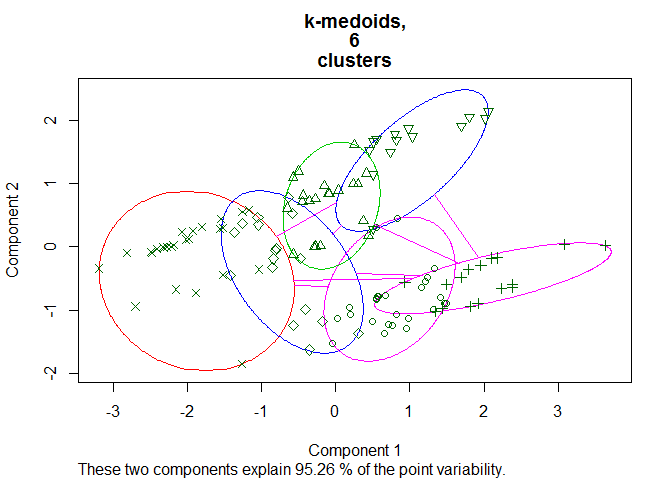
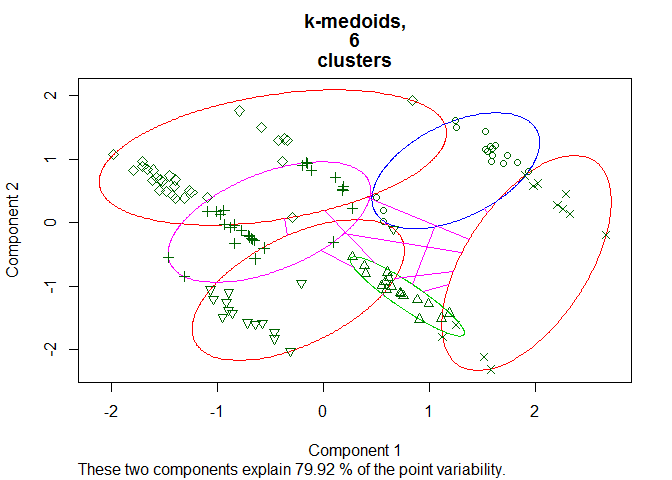
update readme example

diff --git a/README.md b/README.md
@@ -1,17 +1,26 @@
 
-CCC - Categorization, Clustering and Classification
-===================================================
+# CCC - Categorization, Clustering and Classification
 
-The package implements the 3C-strategy\\pipeline for the refinement of disease diagnoses in medical research.
+The package implements the 3C-strategy for the refinement of disease
+diagnoses in medical research.
 
-The first step in the analysis pipeline is manual **C**ategorization of the feature set to: (i) current clinical measures \[CM\] , (ii) potential biomarkers \[PB\] and (iii) assigned diagnosis \[DX\] (one variable).
+The first step in the analysis pipeline is manual **C**ategorization of
+the feature set to: (i) current clinical measures \[CM\] , (ii)
+potential biomarkers \[PB\] and (iii) assigned diagnosis \[DX\] (one
+variable).
 
-In the beginning of the second step (**C**lustering), a subset of the clinical measures is selected via supervised algorithm (Random Forest, LASSO or else) with the assigned diagnosis as the target variable. Then, the selected measures are used to determine the number of clusters for the clustering. Next, the clustering algorithm is applied (K-means, K-medoids or Hierarchical clustering).
+In the beginning of the second step (**C**lustering), a subset of the
+clinical measures is selected via supervised algorithm (Random Forest,
+LASSO or else) with the assigned diagnosis as the target variable. Then,
+the selected measures are used to determine the number of clusters for
+the clustering. Next, the clustering algorithm is applied (K-means,
+K-medoids or Hierarchical clustering).
 
-In step 3 a new model is trained, using the potential biomarkers as features, to **C**lassify the data according to the cluster labels created in step 2.
+In the third step, new model is trained using the potential biomarkers
+as features, to **C**lassify the data according to the cluster labels
+created in step 2.
 
-Installation
-------------
+## Installation
 
 You can install CCC from github with:
 
@@ -20,31 +29,17 @@ You can install CCC from github with:
 devtools::install_github("HBPMedical/CCC")
 ```
 
-Example
--------
+## Example
 
-This is a basic example of the pipeline:
+This is a basic example of the analysis pipeline:
 
 ``` r
-library(tidyverse)
 library(CCC)
 
-adni_subset <- read.csv("data/adni_subset.csv")
-adni_subset_metadata <- read.csv("data/adni_subset_metadata.csv")
+data(c3_sample1)
+data(c3_sample1_categories)
 
-head(adni_subset_metadata) 
-#>     varName varCategory
-#> 1 real_DX_f          DX
-#> 2      CM.1          CM
-#> 3      CM.2          CM
-#> 4      CM.3          CM
-#> 5      CM.4          CM
-#> 6      CM.5          CM
-table(adni_subset_metadata[,"varCategory"])
-#> 
-#> CM DX PB 
-#> 10  1 10
-head(adni_subset)
+head(c3_sample1) 
 #>   real_DX_f assigned_DX_f      CM.1        CM.2       CM.3 CM.4 CM.5 CM.6
 #> 1       1.1             1 28.566518  0.07369715  1.6263875   21    8   -1
 #> 2       1.2             1 15.509559 25.53818777  9.2405993    0    4  -42
@@ -66,41 +61,46 @@ head(adni_subset)
 #> 4  2.961199 2.074998   14    7   79    4    13
 #> 5  2.938243 1.997625   13    7   80    4    13
 #> 6  2.983341 2.001479   15    7   80    4    13
+table(c3_sample1_categories[,"varCategory"])
+#> 
+#> CM DX PB 
+#> 10  1 10
 
-x <- get_xy_from_DATA_C2(adni_subset, adni_subset_metadata)$x
-y <- get_xy_from_DATA_C2(adni_subset, adni_subset_metadata)$y
+x <- get_xy_from_DATA_C2(c3_sample1, c3_sample1_categories)$x
+y <- get_xy_from_DATA_C2(c3_sample1, c3_sample1_categories)$y
 
 C2_results <- C2(x, y, feature_selection_method="RF", num_clusters_method="Manhattan", clustering_method="Manhattan", plot.num.clus=TRUE, plot.clustering=TRUE, k=6)
 ```
 
-![](README-example-1.png)
+![](README-example-1.png)<!-- -->
 
 ``` r
 
 C2_results
 #> [[1]]
-#> [1] "CM.5" "CM.1" "CM.8"
+#> [1] "CM.5" "CM.1" "CM.4"
 #> 
 #> [[2]]
 #> [1] 6
 #> 
 #> [[3]]
-#>   [1] 1 1 2 2 3 2 2 4 5 6 1 3 4 1 4 4 4 4 5 4 5 1 2 6 1 3 6 3 2 1 1 2 1 1 4
-#>  [36] 4 4 2 5 1 4 5 5 4 5 4 6 1 4 1 3 4 1 3 6 6 3 3 4 3 5 1 5 1 5 5 3 4 6 4
-#>  [71] 1 4 3 3 3 2 4 1 5 2 1 2 1 3 2 5 4 6 1 6 5 6 6 4 4 4 4 3 4 5 2 1 1 2 2
-#> [106] 3 6 2 2 5 6 1 2 1 2 6 2 2 1 5
+#>   [1] 1 2 3 3 4 3 3 5 3 6 1 4 5 2 5 5 5 5 2 5 3 1 3 6 1 4 6 2 3 1 2 3 2 1 5
+#>  [36] 5 5 3 3 2 5 3 3 5 5 5 6 2 5 1 2 5 2 4 6 6 4 4 5 2 5 1 3 1 3 5 2 5 6 5
+#>  [71] 1 5 4 4 4 3 5 2 3 3 2 3 2 4 3 1 5 6 1 6 1 6 6 5 5 5 5 4 5 3 1 1 1 3 3
+#> [106] 4 6 3 3 3 6 1 3 2 6 6 3 3 2 3
 
-PBx <- get_PBx_from_DATA_C3(adni_subset, adni_subset_metadata)
+PBx <- get_PBx_from_DATA_C3(c3_sample1, c3_sample1_categories)
 new_y <- C2_results[[3]]
-C3_results <- C3(PBx = PBx, newy = new_y, feature_selection_method="RF", classification_method="RF") 
+
+C3_results <- C3(PBx = PBx, newy = new_y, feature_selection_method = "RF", classification_method="RF") 
 
 table(new_y, C3_results[[2]])
 #>      
 #> new_y  1  2  3  4  5  6
-#>     1  7  2 10  4  3  0
-#>     2  3  5  0 11  1  1
-#>     3 13  0  2  0  1  0
-#>     4  4  7  0 10  2  3
-#>     5  4  3  1  6  2  1
-#>     6  1  1  0  5  0  7
+#>     1  8  1  2  6  0  0
+#>     2  0 10  4  0  3  0
+#>     3  0  4 11  0 12  3
+#>     4  8  4  0  0  0  0
+#>     5  1  1 12  0 12  3
+#>     6  0  0  5  0  2  8
 ```
